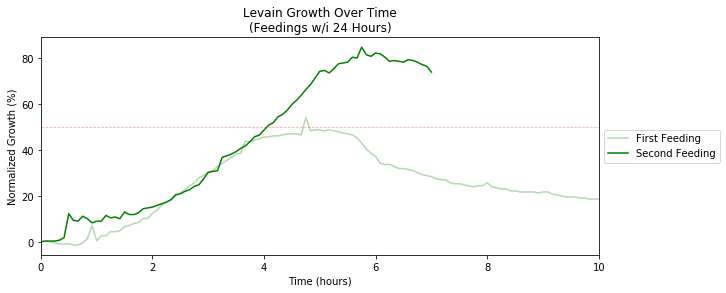
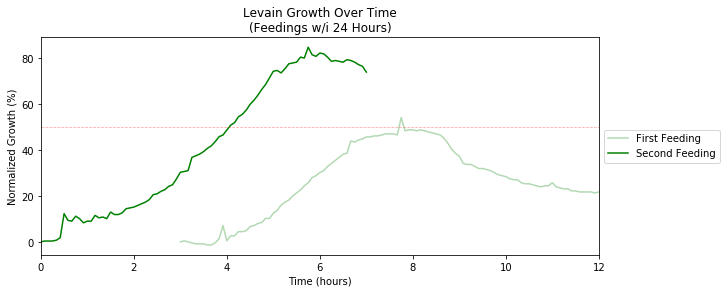
Blog post 85% complete.

diff --git a/content/posts/2018/06/sourdough-starter-monitor.md b/content/posts/2018/06/sourdough-starter-monitor.md
@@ -9,23 +9,70 @@ title = "Using Computer Vision to Monitor Fermentation of Wild Yeast"
 type = "blog"
 
 +++
-Bread, the quintessence of life. People have survived off this staple for centuries using only flour, water, salt, and yeast. If you were to try consuming those ingredients individually, your body refuse it. However, by combining them together and letting time do its thing, you get fermentation of healthy bacteria that releases flavour, texture, and nutrients that were previously locked away.
+Bread, the quintessence of life. People have survived for centuries off this staple consisting only of flour, water, salt, and yeast. Fun fact: try consuming all these ingredients separately, and you'll be in for a digestive surprise. However, mix them together and let time do its thing, and the resulting fermentation releases flavour, texture, and nutrients that were previously locked away. 
+
+Although it's relatively easy to turn dough into something that resembles a loaf of bread, it's much more challenging to squeeze every possible ounce of flavour and texture using only these four ingredients. A baker's skill is in their ability to manage and control the fermentation process, which is usually achieved through countless months/years of trial and error.
+
+**But what if there was another way to gain a better understanding of what happens during fermentation?** 
+
+In this blog post, we dive into the world of wild yeast (aka. sourdough starter) by tracking its growth through timelapses, programming, and cool graph animations. Read on to find out more! 
+
+<div class="row captioned-img">
+    <video class="img-responsive img-content" autoplay="autoplay" loop="loop" controls>
+      <source src=/imgs/blog-imgs/sourdough-starter-monitor/timelapse.mp4 type="video/mp4" />
+    </video>
+    <p class="caption">Timelapse taken over ~10 hours at 5 minute intervals. Shown: Two sourdough starters with different feeding ratios.</p>
+</div>
 
 # The Backstory
-Blah blah blah
+
+Two key components in making artisinal bread are **time** and **fermentation**. If you can afford a long, slow rise, you will be rewarded with flavours that are both complex and subtle, and a texture like no other. Most bakeries unfortunately do not have this luxury (since it's a business after all), so commercial instant dry yeast is used to expedite the rise and reach the desired loaf volume at a reasonable schedule. With loafs risen with instant dry yeast, it will definitely resemble visual qualities of bread, but the texture and taste will not be comparable to bread that uses wild yeast.
+
+The quest for baking the perfect loaf is an arduous one. It can take anywhere upwards of 12 hours from the first mix to actually being able to bake, and environmental factors (ie. temperature and humidity) can alter the dough's behaviour in how it absorbs water and how fast/slow the fermentation occurs. With every loaf being slightly different, it can be challenging to identify what processes need changing to get one step closer to that perfect loaf.
+
+Sourdough starter is a living organism, and as such should be treated with kindness, respect, and most importantly, food. An active starter is a happy and well-fed one; if we can get a feel for how the starter behaves on a day-to-day basis during its feeding (and thus when the fermentation occurs), it may help clear up at least one of the variables in bread baking.
+
+One way to achieve this understanding is simply through trial and error. But we can do better. We can use (rather simple) **computer vision**!
+
+For context, a typical process for making bread is roughly described below:
+
+1. Discard 80-90% of the sourdough starter and feed it with flour and water.
+2. Wait a few hours for the starter to ferment and double or triple in size.
+3. At its peak, take the starter and mix it in with the rest of the bread ingredients.
+4. Gently fold the dough to tighten it up (which creates the gluten) a few times for the first 1-2 hours.
+5. Let rest. Flavours are developed during this bulk fermentation period.
+5. Shape the loaf and place it in a proofing basket.
+6. Let rest. The final volume is achieved during this second fermentation.
+7. Bake.
+
+The loaf's holey texture (ie. the openness of the crumb) is largely determined by activeness of the starter, so this is where we shall put our initial efforts. **Specifically, we want to understand**:
+
++ When the starter reaches its maximum fermentation,
++ How consistent the starter's fermentation is, and
++ What happens when the starter is neglected and how quickly it can come back to life.
+
+To get to know the starter better, our plan is to:
+
+1. Take a timelapse of starter
+1. Write a script to find the current height of the starter
+1. Plot the height over time to get the growth characteristics
+
+Enough with the walls of text. Let's get on to the fun stuff!
 
 # The Development
 
-## Setting It Up
+## Setting Up the Timelapse
 
-### Headless Raspberry Pi Zero
+For ease and convenience, the timelapse was set up on a Raspberry Pi. You can really use any camera, but I went with a Pi to give me the future flexibility if I wanted to put something together for real-time analysis (instead of analyzing the data afterwards).
 
-Setting up a Raspberry Pi is very easy these days.
+### Loading the Raspberry Pi Zero (Headless)
+
+Setting up a Raspberry Pi is very easy these days:
 
 1. Download [Raspbian](https://www.raspberrypi.org/downloads/raspbian/)
 2. Flash it to an SD card with something like [Etcher](https://etcher.io/)
 
-The only hiccup I ran into was setting up without any monitor or ethernet attached, so getting it connected to WiFi and retrieving its IP address was non-trivial. Luckily, other people have run into the same problem over at the [Raspberry Pi forums]((https://www.raspberrypi.org/forums/viewtopic.php?t=191252).
+The only hiccup I ran into was setting up without any monitor or ethernet attached, so getting it connected to WiFi and retrieving its IP address was non-trivial. Luckily, other people have run into the same problem over at the [Raspberry Pi forums](https://www.raspberrypi.org/forums/viewtopic.php?t=191252).
 The solution:
 
 1. Create an empty file on the SD's boot partition called `ssh` to enable it.
@@ -46,7 +93,7 @@ network={
 
 Connect the camera module, boot it up, and with any luck you should be able to ssh into it from your own computer!
 
-### Creating the Timelapse
+### Creating the Scripts
 
 Fortunately, the Pi comes loaded with `raspistill`, a command line tool to capture images (see [here](https://www.raspberrypi.org/documentation/usage/camera/raspicam/raspistill.md) for documentation). All we need to do is to write a simple shell script to execute this command every N seconds to create a timelapse.
 
@@ -105,9 +152,9 @@ nohup ./timelapse.sh &> /dev/null &
 
 Nothing fancy here, so let's move along!
 
-## Putting it All Together
+## Taking the Timelapses
 
-Sure I could have 3D printed an enclosure, but where's the fun in that when readily available materials can be used to achieve the same result? Might not be as pretty, but when bread is on the line then nothing else matters. All we're here for is the data!
+Sure I could have 3D printed an enclosure, but where's the fun in that when readily available materials can be used to achieve the same result? Might not be as pretty, but when bread is on the menu then nothing else matters. All we're here for is the data!
 
 {{<img caption="Sometimes random parts and a bit of tape are the best way forward." src="/imgs/blog-imgs/sourdough-starter-monitor/IMG_20180527_173837.jpg" >}}
 
@@ -123,14 +170,11 @@ The next morning, you can ssh back in and kill the process with:
 $ pkill timelapse
 ```
 
-Now we have some data to analyze!
+Once you have it set up on the Pi, you can also control it with your phone and something like [JuiceSSH](https://play.google.com/store/apps/details?id=com.sonelli.juicessh&hl=en_CA) to feel super techy.
 
-<div class="row captioned-img">
-    <video class="img-responsive img-content" autoplay="autoplay" loop="loop" controls>
-      <source src=/imgs/blog-imgs/sourdough-starter-monitor/timelapse.mp4 type="video/mp4" />
-    </video>
-    <p class="caption">Timelapse taken over ~10 hours at 5 minute intervals. Shown: Two sourdough starters with different feeding ratios.</p>
-</div>
+{{<img caption="Starting the timelapse on Android." src="/imgs/blog-imgs/sourdough-starter-monitor/Screenshot_JuiceSSH_20180623-124103.png" >}}
+
+Now we have some data to analyze!
 
 ## The Analysis
 
@@ -169,7 +213,7 @@ Given a hot tip from my coworker (thanks Andreas) that Otsu's method is a good o
 
 > Otsu’s method calculates an “optimal” threshold (marked by a red line in the histogram below) by maximizing the variance between two classes of pixels, which are separated by the threshold. Equivalently, this threshold minimizes the intra-class variance. - [SciKit Image Docs](http://scikit-image.org/docs/dev/auto_examples/segmentation/plot_thresholding.html)
 
-The main takeaway with Otsu's method is that it works best with a bimodal distribution. For our image, this means the histogram should be represented by two distinct peaks. Since our cropped image looks to have two distinct regions, let's confirm that this method will be sufficient.
+The main takeaway with Otsu's method is that it works best with a bimodal distribution. For our image, this means the histogram should be represented by two distinct peaks. Since our cropped image looks to have two visually different areas (ie. transparent glass at the top, flour/water mixture at the bottom), let's confirm that this method will work.
 
 ```python
 plt.hist(img.ravel(), bins=256, range=(0.0, 1.0), fc='k', ec='k')
@@ -268,10 +312,10 @@ The timelapses below show the sourdough starter from different dates. The bounda
 {{<loop-vid caption="A larger jar was needed for this one! The thresholding algorithm was surprisingly still able ot catch the peak to some extent, despite minimal contrast." src="/imgs/blog-imgs/sourdough-starter-monitor/2018-06-10 Out of Fridge.mp4">}}
 
 ### June 23, First Feeding
-{{<loop-vid caption="A larger jar was needed for this one! The thresholding algorithm was surprisingly still able ot catch the peak to some extent, despite minimal contrast." src="/imgs/blog-imgs/sourdough-starter-monitor/2018-06-23 First Feeding.mp4">}}
+{{<loop-vid caption="After some neglect, the starter only rose to ~50%..." src="/imgs/blog-imgs/sourdough-starter-monitor/2018-06-23 First Feeding.mp4">}}
 
 ### June 23, Refeeding
-{{<loop-vid caption="A larger jar was needed for this one! The thresholding algorithm was surprisingly still able ot catch the peak to some extent, despite minimal contrast." src="/imgs/blog-imgs/sourdough-starter-monitor/2018-06-23 Refeeding.mp4">}}
+{{<loop-vid caption="But after another feeding the next morning, it had enough activity to spring back ~80% growth!" src="/imgs/blog-imgs/sourdough-starter-monitor/2018-06-23 Refeeding.mp4">}}
 
 ## The Discussion
 
@@ -287,15 +331,13 @@ On May 29th, we began to feed our sourdough starter after many months of sporadi
 
 {{<img-span caption="We can see that regularly feeding the sourdough starter greatly increases its rate and growth." src="/imgs/blog-imgs/sourdough-starter-monitor/Levain Growth Over Time (Regular Feeding).png" >}}
 
-**Note**: The time delay of each subsequent feeding day may not mean anything, and may be purely coincidental that it looks like a pattern. Starting temperature plays a significant role in the fermentation cycle, and it was likely that the June 10 was fed right after being taken out of the fridge. 
-
-What we should pay attention to is the change in growth and the growth rate, not the shift in the horizontal axis. However, if you have any other insight as to what may cause this shift, please leave a comment below!
+**Note**: The time delay of each subsequent feeding is not a result of regularity, but rather because the starter to food ratio was reduced over time to promote a more active fermentation. We eventually migrated to a 50g starter + 100g water + 100g flour (50 / 50 white and whole wheat). The starter has more potential for growth by beginning with less starter and more food, but as a result it may takee a bit longer for the bacteria to really start multiplying.started
 
 ### Bringing the Starter Back to Life
 
 Previous to June 23, the starter was neglected for a week. After the first (overnight) feeding, it showed little signs of growth. However, feeding it again at lunch and tracking its progress shows that the growth springs back up to ~80%, which was around the previous maximum from before. 
 
-{{<img-span caption="What doesn't kill you makes you stronger (or at least as strong as before)." src="/imgs/blog-imgs/sourdough-starter-monitor/refeeding_1.png" >}}
+{{<img-span caption="What doesn't kill you makes you stronger (or at least as strong as before). First feeding is shifted because I forgot to start the timelapse right away." src="/imgs/blog-imgs/sourdough-starter-monitor/refeeding_1.png" >}}
 
 Thus, a bit of neglect seems to be okay since it appears to be somewhat resilient to starvation!
 
